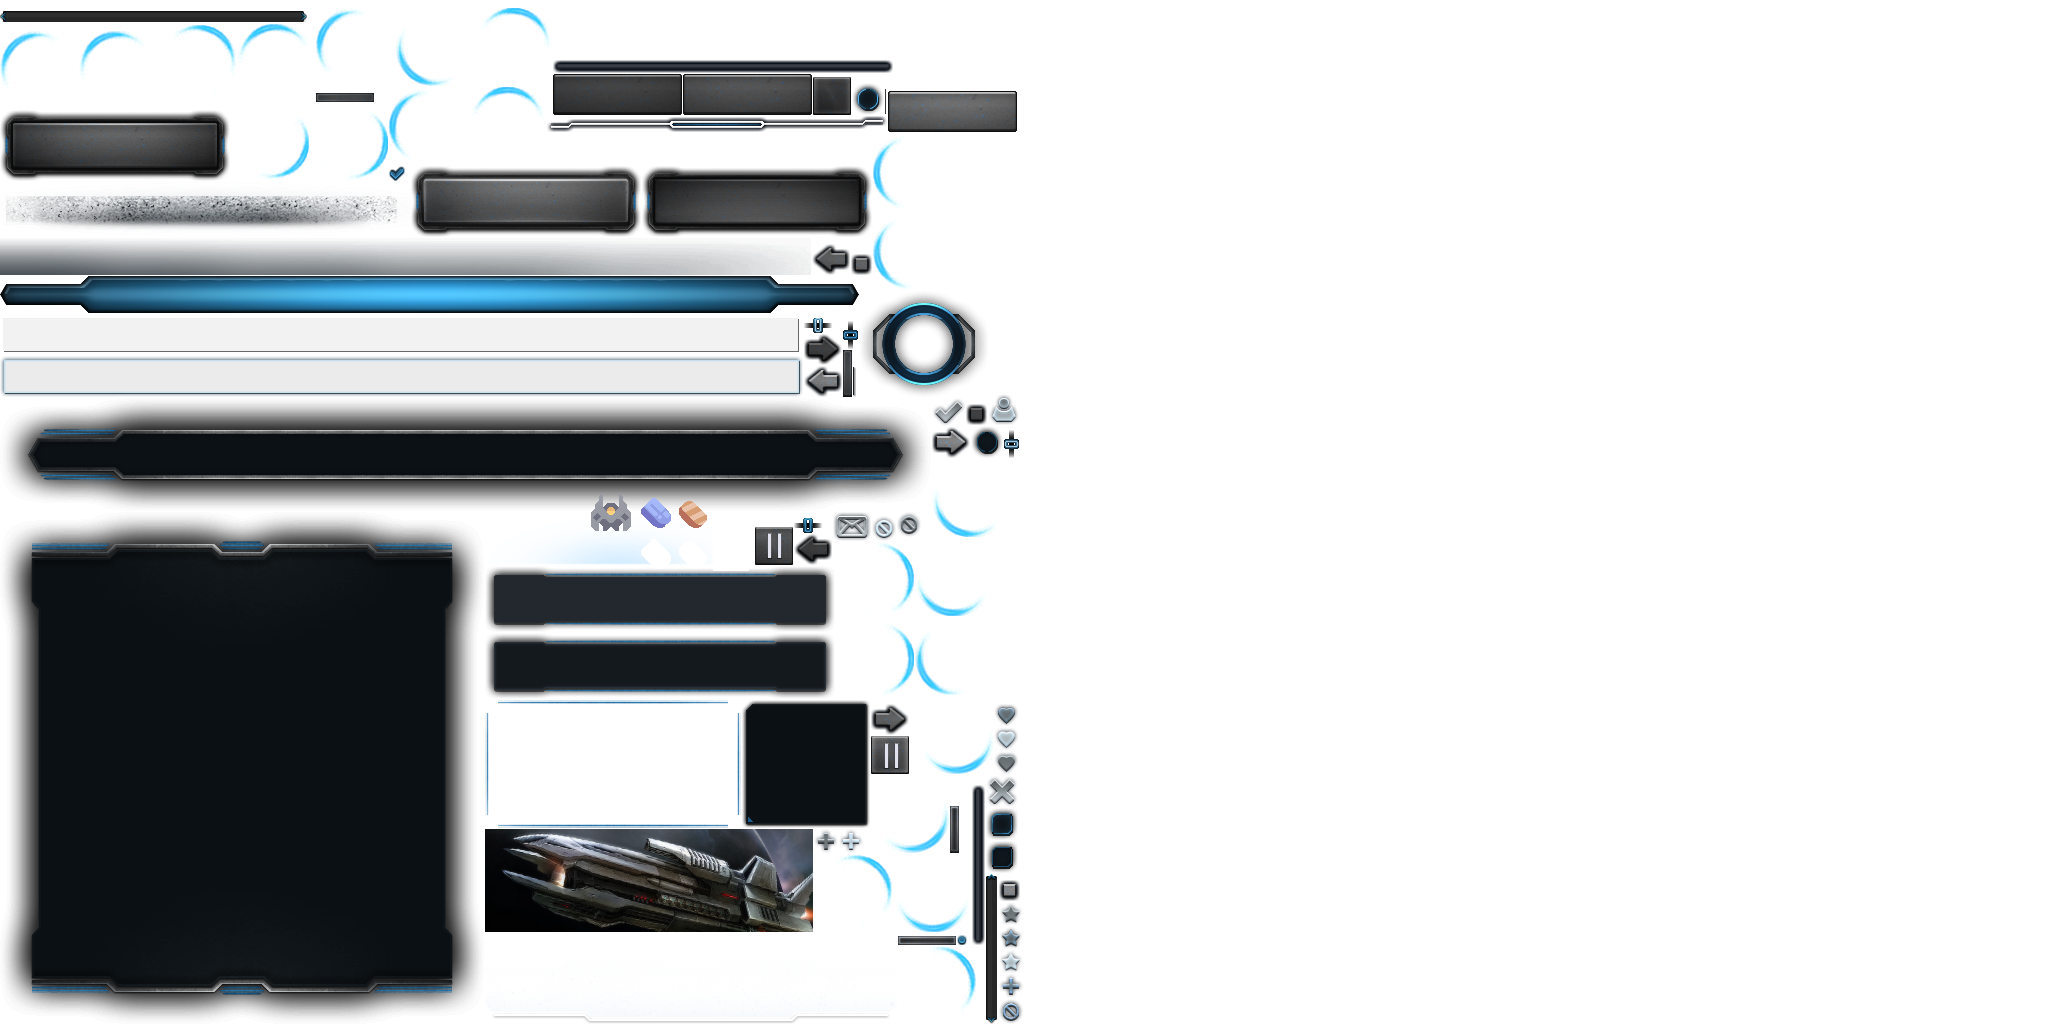
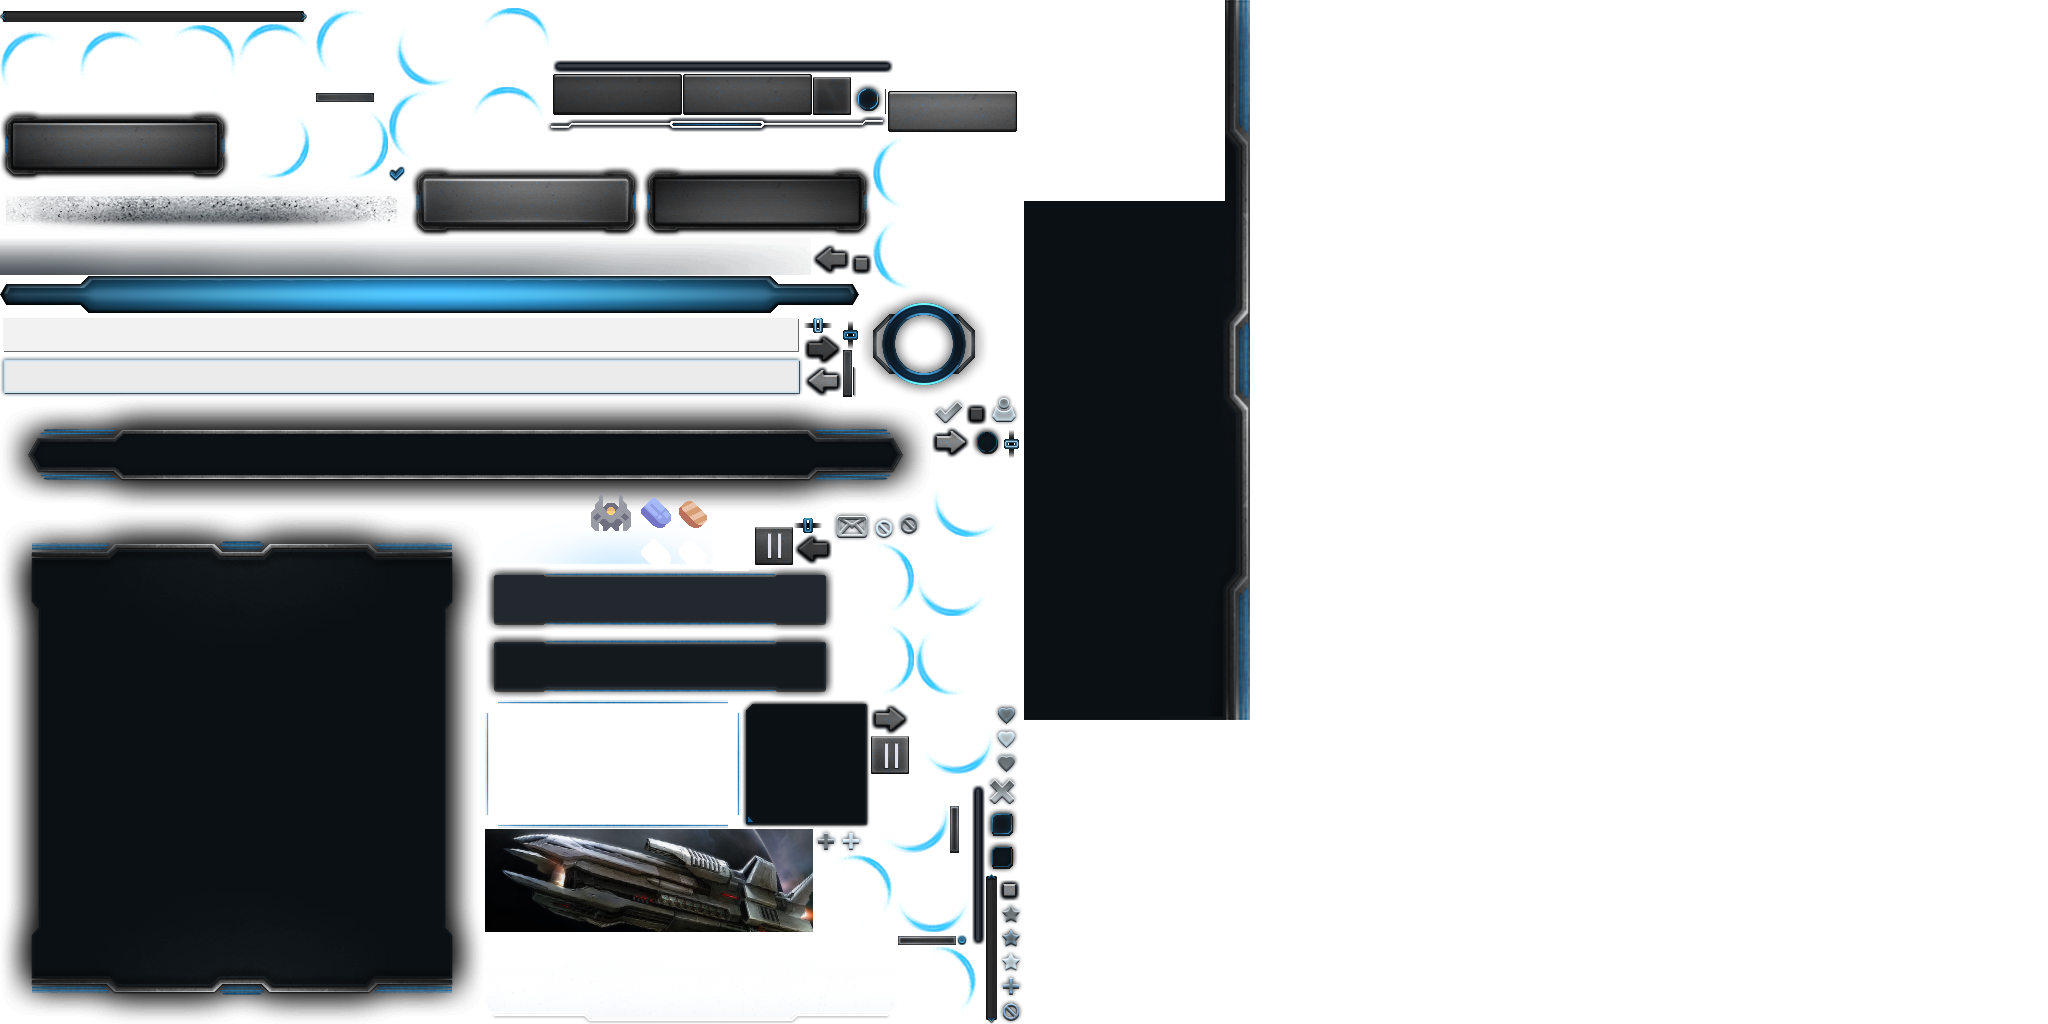
Panel UI

Changed region(s): [[0.5, 0.0, 0.625, 0.7188]]

diff --git a/Source/j1Scene.cpp b/Source/j1Scene.cpp
@@ -53,6 +53,7 @@ bool j1Scene::Start()
 	Titanium = App->gui->AddImage(980, 22, { 641,498,30,31 }, false, false, nullptr, this);
 	//Unit1 = App->gui->AddButton(0, 600, { 32,544,430,208}, { 32,544,440,208 }, { 32,544,440,208 }, true, false, nullptr, this);
 
+	Panel = App->gui->AddImage(0, 0, { 1024,0,226,720 }, false, false, nullptr, this);
 	buttonFx = App->audio->LoadFx("Resources/audio/fx/beep.wav");
 
 	return true;

diff --git a/Source/j1Scene.h b/Source/j1Scene.h
@@ -44,6 +44,7 @@ private:
 	UiElement* Continue_button;
 	UiElement* fullScreen;
 	UiElement* SaveButton;
+	UiElement* Panel;
 	int buttonFx;
 	bool exitGame;
 };
